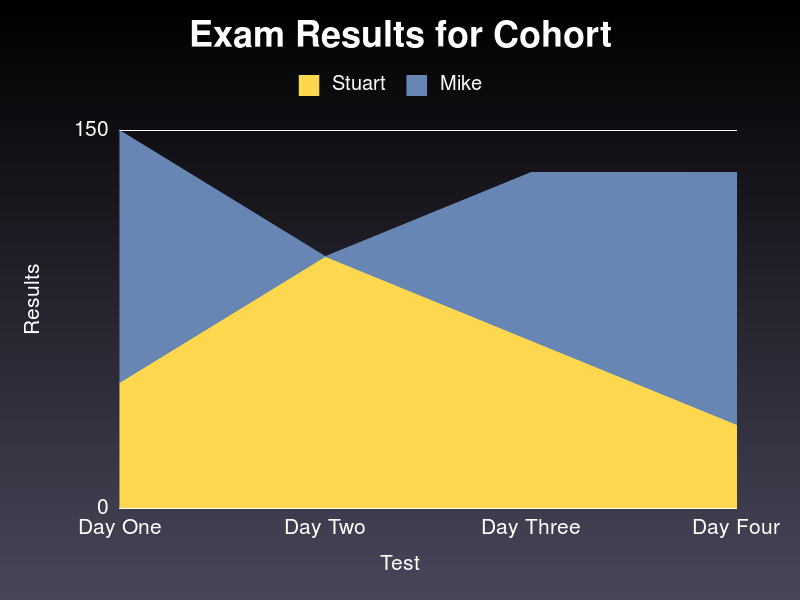
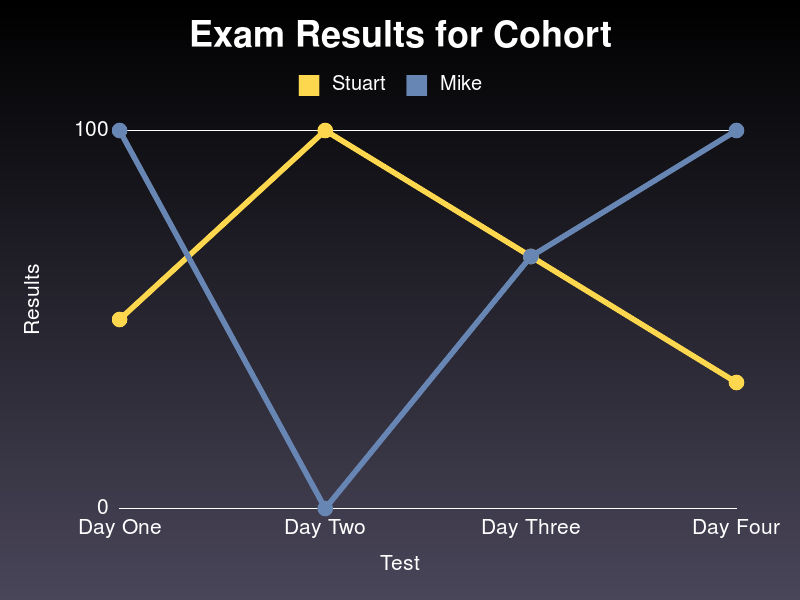
Have methods working for querying difficulty of a question

diff --git a/app/assets/stylesheets/questions.scss b/app/assets/stylesheets/questions.scss
@@ -12,3 +12,9 @@
   background-color: rgb(91, 3, 96);
   color: white;
 }
+
+.question-trial {
+  display: inline-block;
+  padding: 10px;
+  border: 2px solid black;
+}

diff --git a/app/models/question.rb b/app/models/question.rb
@@ -1,8 +1,37 @@
 class Question < ActiveRecord::Base
+  validates :content, :presence => true,
+                      :length => {minimum: 5},
+                      :length => {maximum: 200}
+
   has_many :choices
   has_many :attacheds
   has_many :exams, :through => :attacheds
   belongs_to :category
 
   accepts_nested_attributes_for :choices, reject_if: :all_blank, allow_destroy: true
+
+  # gets all the answers by an active record collection for a specific question
+  def answers_for_a_question
+    @answers = if Answer.where(question_id: self.id)
+      Answer.where(question_id: self.id)
+    else
+      []
+    end
+  end
+
+  def self.average_difficulty_of_question(answers)
+    # return 0.10 if answers = []
+
+    answer_counter = 0;
+    correct_counter = 0;
+    correct_array = []
+
+    answers.each do |answer|
+      answer_counter += 1
+      correct_counter += 1 if answer.correct
+    end
+
+    correct_counter/answer_counter.round(2)
+  end
+
 end

diff --git a/app/controllers/cohorts_controller.rb b/app/controllers/cohorts_controller.rb
@@ -32,7 +32,7 @@ class CohortsController < ApplicationController
         @exam_labels[index] = exam.name
       }
 
-      g = Gruff::StackedArea.new
+      g = Gruff::Line.new
       g.title = "Exam Results for Cohort"
       g.x_axis_label = "Test"
       g.y_axis_label = "Results"

diff --git a/app/models/answer.rb b/app/models/answer.rb
@@ -1,4 +1,10 @@
 class Answer < ActiveRecord::Base
+  validates :scantron_id, :presence => true
+  validates :question_id, :presence => true
+  validates :correct, :presence => true
+  validates :choice_id, :presence => true
+
   belongs_to :scantron
   belongs_to :question
+
 end

diff --git a/app/controllers/questions_controller.rb b/app/controllers/questions_controller.rb
@@ -3,6 +3,8 @@ class QuestionsController < ApplicationController
 
   def index
     @questions = Question.all
+    answers = Question.first.answers_for_a_question * 100
+    Question.average_difficulty_of_question(answers)
   end
 
   def new
